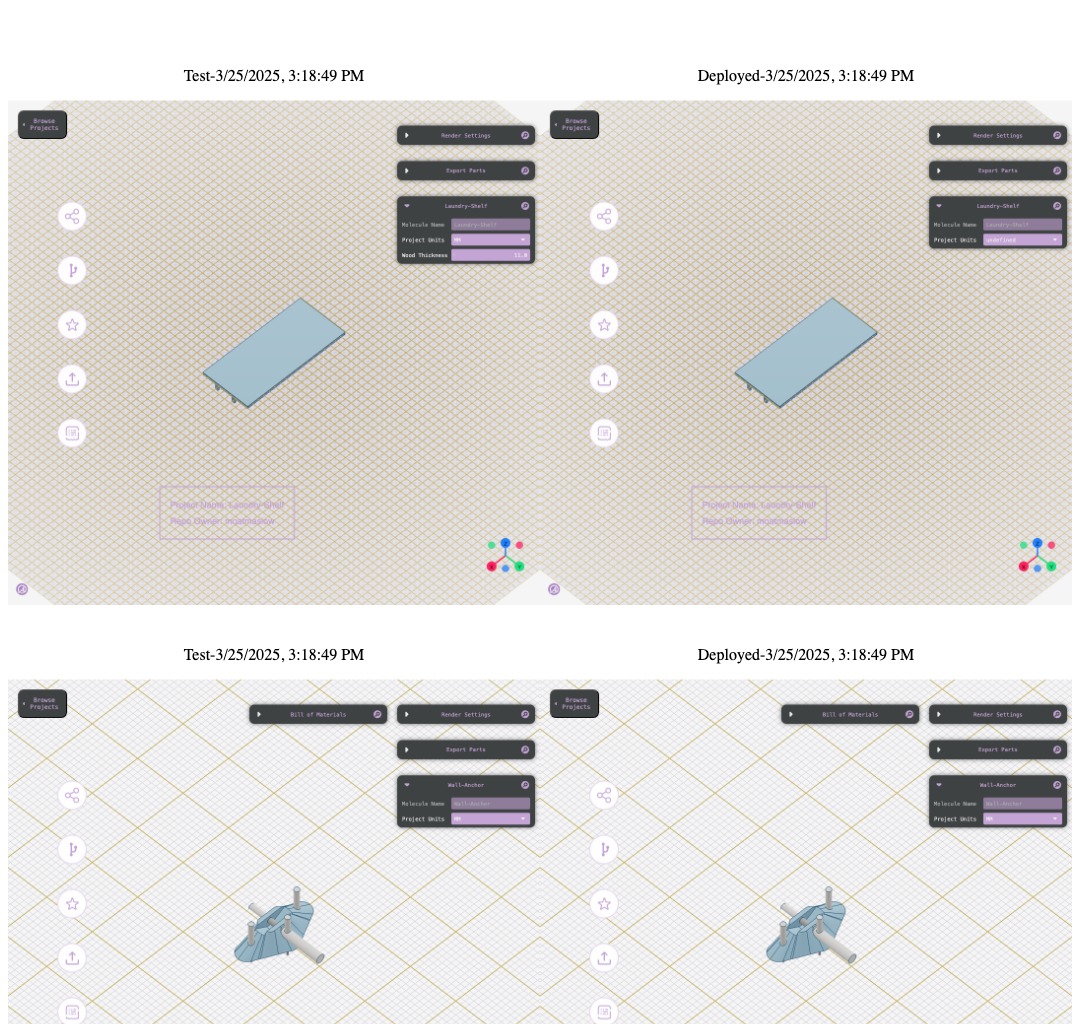
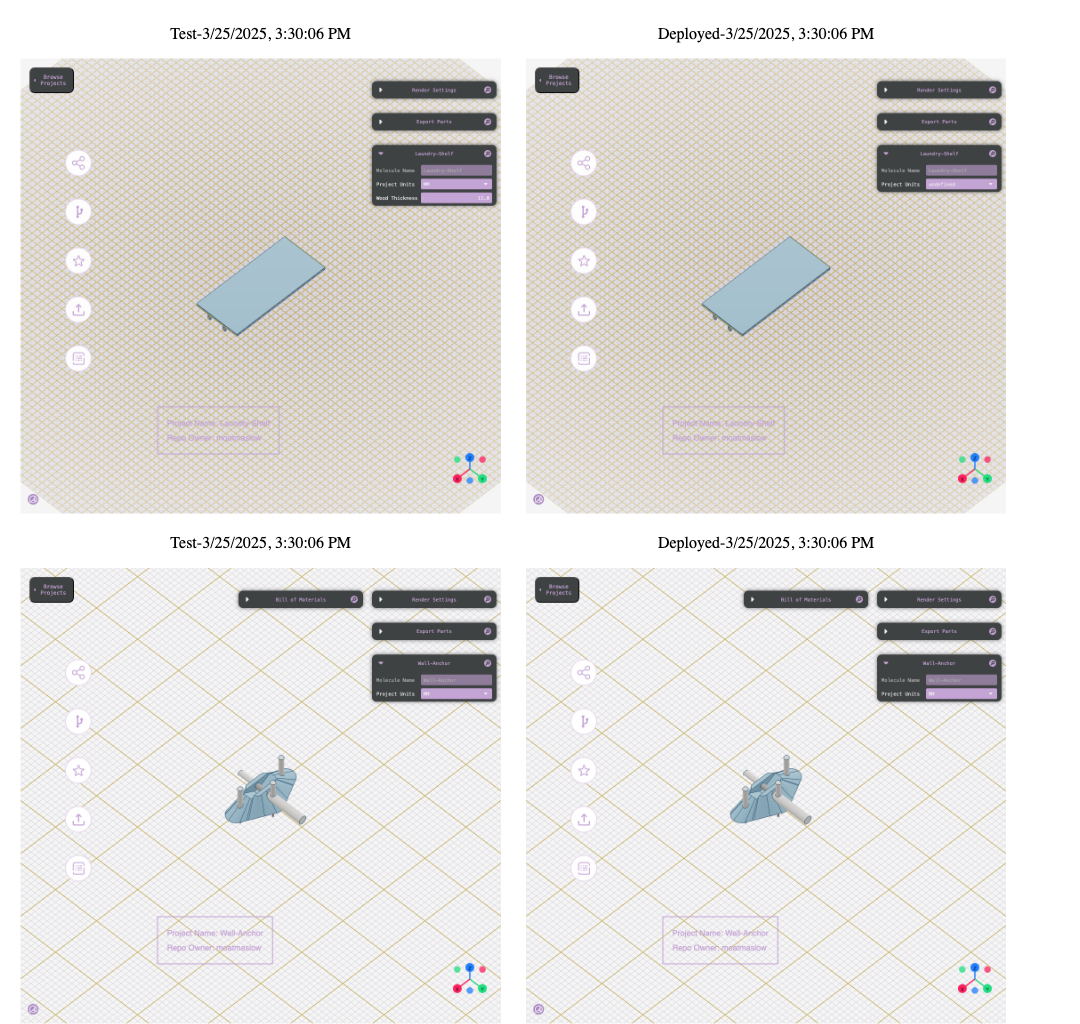
change main css

diff --git a/Puppet/main.html b/Puppet/main.html
@@ -8,15 +8,13 @@
       .container {
         display: flex;
         justify-content: space-around;
-        align-items: center;
-        margin-top: 50px;
         flex-direction: column;
       }
       .image-wrapper {
         text-align: center;
       }
       .image-wrapper img {
-        max-width: 100%;
+        max-width: 95%;
         height: auto;
       }
 
@@ -24,7 +22,7 @@
         display: flex;
         justify-content: space-around;
         align-items: center;
-        margin-bottom: 20px;
+        width: 95%;
       }
     </style>
   </head>
